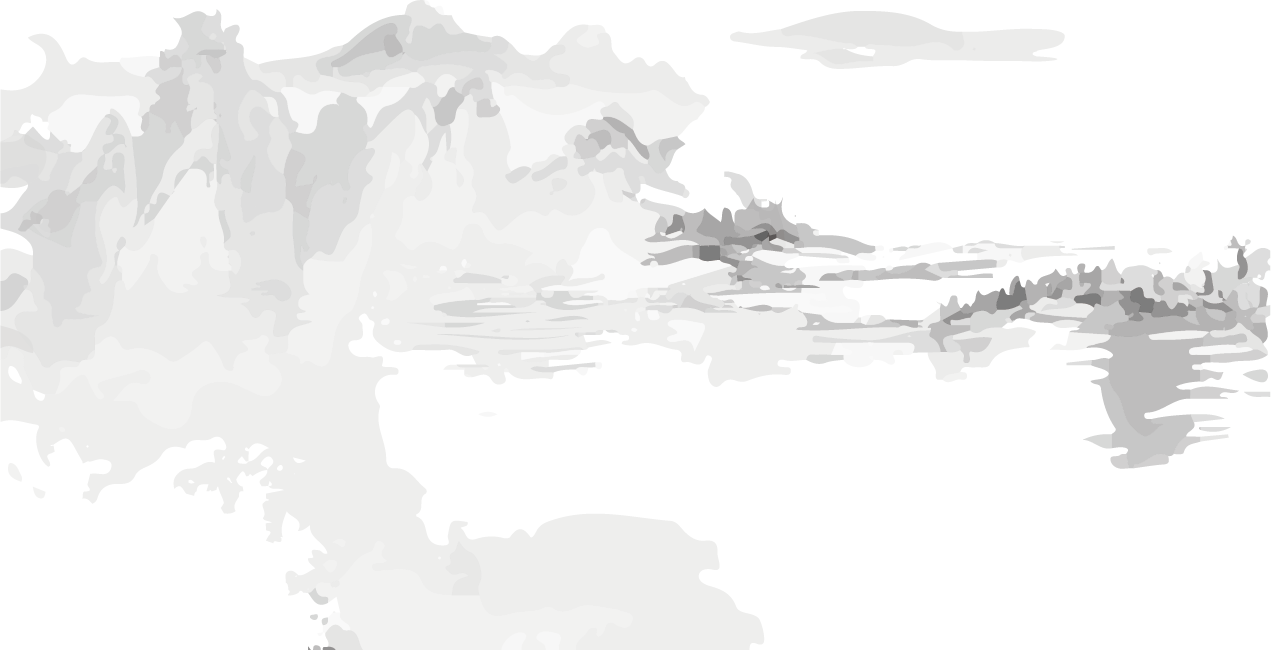
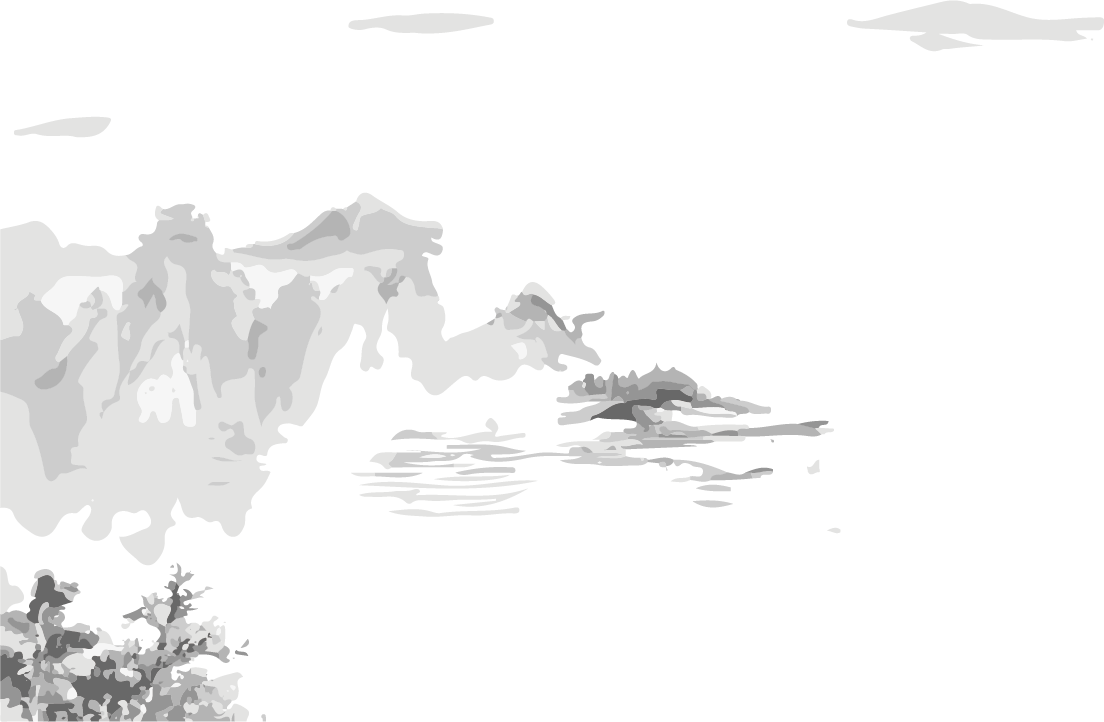
修改 info_behind img 網頁布局 width 70% ->100%

diff --git a/index.html b/index.html
@@ -20,24 +20,22 @@
 					<img class="home_page_right_moun" src="img/index/right_moun.png" width="30%" alt="" draggable="false">
 					<img class="home_page_left_banbom" src="img/index/left_banbom.png" width="30%" alt="" draggable="false">
 					<img class="home_page_right_banbom" src="img/index/right_banbom.png" width="25%" alt="" draggable="false">
-					<img class="home_page_lee" src="img/index/index_lee.png" width="25%" alt="" draggable="false">
+					<img class="home_page_lee" src="img/index/index_lee.png" width="28%" alt="" draggable="false">
 					<div class="home_text">
 						<h1>李商隱</h1>
-						<h3>晚唐最唯情詩人</h3>
 					</div>
 					
 				</div>
 			</div>
 			<div class="plane">
 				<div class="info_page">
-					<img class="info_page_behind" src="img/info/behind.png" width="87%" alt="" draggable="false">
-					<img class="info_page_front" src="img/info/front.png" width="30%" alt="" draggable="false">
+					<img class="info_page_behind" src="img/info/behind.png" width="80%" alt="" draggable="false">
+					<img class="info_page_front" src="img/info/front.png" width="35%" alt="" draggable="false">
 					<img class="info_page_lee" src="img/info/info_lee.png" width="25%" alt="" draggable="false">
 					<div class="info_text">
-						<h3>關於李商隱</h3>
-						<p>李商隱是晚唐唯美文學的健將，也是中國詩史上最是唯情的詩人，因為他唯情，不能理性地去處理人生，所以就註定他悲劇性的一生。同時也因為他的唯情，才造就了他那些令人低迴再三的詩篇。他的詩往往是自己內在心靈情感經驗的提昇，通過高度的藝術技巧，將那種抽象的感受直接渲染到讀者心中。他大部份作品，愛用冷癖的典故、含蓄的語言。去襯寫悽豔的情感，使人只覺其文字之凝鍊、音調之悽美，而不明其所詠何事。但儘管如此，還是感受得到他的詩中所呈現的那種悽美之境，這就是李商隱詩獨有的魅力，千百年來一直為讀者所嚐嗜。</p>
-
-						<p>而李商隱在時代環境的傾軋下、及命運的乖違中，以自己的性格為自己的一生捏造一場悲劇，千百年後，仍受盡各種誤解，『舊唐書』中，說李商隱「俱無持操」；『新唐書』則說李商隱「詭薄無行」，儘管時間已過千百年，但許多史學研究者對李商隱的看法，仍帶著些當年牛黨一派人的成見，因而對詩人未能做出公平的評價。以至到今天，他仍是個有爭議的人物，也因此值得我們加以研究。</p>
+						<p>李商隱是晚唐唯美文學的健將，也是中國詩史上最是唯情的詩人，因為他唯情，不能理性地去處理人生，所以就註定他悲劇性的一生。同時也因為他的唯情，才造就了他那些令人低迴再三的詩篇。他的詩往往是自己內在心靈情感經驗的提昇，通過高度的藝術技巧，將那種抽象的感受直接渲染到讀者心中。</p>
+						<p>他大部份作品，愛用冷癖的典故、含蓄的語言。去襯寫悽豔的情感，使人只覺其文字之凝鍊、音調之悽美，而不明其所詠何事。但儘管如此，還是感受得到他的詩中所呈現的那種悽美之境，這就是李商隱詩獨有的魅力，千百年來一直為讀者所嚐嗜。
+						</p>
 					</div>
 				</div>
 			</div>
@@ -118,15 +116,13 @@
 				<div class="effect_page">
 					<img class="effect_page_behind" src="img/effect/behind.png" width="100%" alt="" draggable="false">
 					<img class="effect_page_between" src="img/effect/between.png" width="40%" alt="" draggable="false">
-					<img class="effect_page_top" src="img/effect/top.png" width="50%" alt="" draggable="false">
-					<img class="effect_page_lee" src="img/effect/effect_lee.png" width="40%" alt="" draggable="false">
+					<img class="effect_page_top" src="img/effect/top.png" width="60%" alt="" draggable="false">
+					<img class="effect_page_lee" src="img/effect/effect_lee.png" width="30%" alt="" draggable="false">
 					<div class="effect_text">
 						<h2>對後世影響</h2>
-						<p>李商隱通常被視作唐代後期最傑出的詩人，其詩風受李賀影響頗深，在句法、章法和結構方面則受到杜甫和韓愈的影響。王安石云：「唐人知學老杜而得其藩籬者，惟義山一人而已。」李調元《雨村詩話》認為：「學杜而處處規，此笨伯也，終身不得升其堂，況入其室。唐人升堂，惟李義山一人而已。」葉紹蘊《石林詩話》云：「唐人學老杜，為商隱一人而已；雖未盡造其妙，然精密華麗，亦自得彷彿。」有部分評論家認為，在唐朝的優秀詩人中，他的重要性僅次於杜甫、李白、王維等人。就詩歌風格的獨特性而言，他與其他任何詩人相比都不遜色。讚賞李商隱詩歌和批評他的人，所針對的都是他鮮明的個人風格。</p>
+						<p>李商隱通常被視作唐代後期最傑出的詩人，其詩風受李賀影響頗深，在句法、章法和結構方面則受到杜甫和韓愈的影響。有部分評論家認為，在唐朝的優秀詩人中，他的重要性僅次於杜甫、李白、王維等人。就詩歌風格的獨特性而言，都是他鮮明的個人風格。</p>
 						
-						<p>李商隱擅作七律和五言排律，七絕也有不少傑出的作品。清朝詩人葉燮在《原詩》中評李商隱的七絕「寄託深而措辭婉，實可空百代無其匹也。」
-
-						李商隱一生糾纏於政治鬥爭，與大量的戀愛痛苦中，養成感傷抑鬱的性格。作品中多諷刺意味，大半借託史事，寄其弔古傷今之意。其愛情詩手腕高妙，嚴肅而不輕薄，清麗而不浮淺，詞藻華麗，並且善於描寫和表現細微的感情，葉嘉瑩認為李義山的詩感受精微銳敏、心意窈眇幽微，足以透出於現實之外而深入於某一屬於心靈之夢幻的境界。</p>
+						<p>李商隱擅作七律和五言排律，七絕也有不少傑出的作品。清朝詩人葉燮在《原詩》中評李商隱的七絕「寄託深而措辭婉，實可空百代無其匹也。」。</p>
 					</div>
 				</div>
 			</div>

diff --git a/scrpit/css/web_style.css b/scrpit/css/web_style.css
@@ -59,13 +59,6 @@ html , body
 	letter-spacing: 3px;
 }
 
-.load
-{
-	width: 100%;
-	height: 100%;
-	background-color: #D5D5D5;
-}
-
 
 .index
 {
@@ -90,16 +83,16 @@ html , body
 	height: 100%;
 	width: 25%;
 	float: left;
-	background-color:#A4A4A4;
+	background-color:#232323;
 	margin: auto;
 }
 
 .home_page
 {
-	width: 70%;
-	height: 70%;
+	width: 100%;
+	height: 100%;
 	background-color:#E2E1E1;
-	margin: 10% auto;
+	margin: 0% auto;
 	position: relative;
 }
 
@@ -107,25 +100,17 @@ html , body
 {
 	color:#515151;
 	position: absolute;
-	left: 30%;
-	top: 15%;
-	font-size: 48px;
-}
-
-.home_page h3
-{
-	color: #515151;
-	position: absolute;
 	left: 35%;
-	top: 32%;
+	top: 15%;
+	font-size: 50px;
 }
 
 .info_page
 {
-	width: 70%;
-	height: 70%;
-	background-color:#E2E1E1;
-	margin: 10% auto;
+	width: 100%;
+	height: 100%;
+	background-color:#E7E7E7;
+	margin: 0% auto;
 	position: relative;
 	
 }
@@ -137,20 +122,21 @@ html , body
 
 .write_page
 {
-	width: 70%;
-	height: 70%;
+	width: 100%;
+	height: 100%;
 	background-color:#E2E0E0;
-	margin: 10% auto;
+	margin: 0% auto;
 	position: relative;
 	transition: all 0.6s ease-out;
+	user-select: none;
 }
 
 .effect_page
 {
-	width: 70%;
-	height: 70%;
+	width: 100%;
+	height: 100%;
 	background-color:#E2E0E0;
-	margin: 10% auto;
+	margin: 0% auto;
 	position: relative;
 }
 
@@ -210,39 +196,37 @@ html , body
 .info_page_behind
 {
 	position: absolute;
-	left: 10%;
-	top: 10%;
-	opacity: 0;
+	left: 0%;
+	bottom: 0;
+	opacity: 1;
+	transition: all 0.3s ease-out;
 }
 
 .info_page_front
 {
 	position: absolute;
-	right: 20%;
+	right: 10%;
 	top: 5%;
-	opacity: 0;
+	opacity: 1;
+	transition: all 0.5s ease-out;
 }
 
 .info_page_lee
 {
 	position: absolute;
-	right: -10%;
+	right: 10%;
 	bottom: 0%;
 }
 
 .info_text
 {
 	position: absolute;
-	top: 10%;
+	top: 15%;
 	left: 10%;
 	width: 50%;
-	height: 70%;
-	opacity: 0;
-}
-
-.info_text h2
-{
-	font-size: 16px;
+	height: 100%;
+	opacity: 1;
+	transition: all 0.6s ease-out;
 }
 
 .info_text p
@@ -258,7 +242,7 @@ html , body
 .page_flex
 {
 	position: relative;
-	width: 70%;
+	width: 50%;
 	display: flex;
 	justify-content: space-around;
 	top: 40%;
@@ -297,11 +281,11 @@ html , body
 
 .chapter
 {
-	width: 30%;
+	width: 25%;
 	position: absolute;
 	background-color: #f2f0ed;
-	top: -10%;
-	left: 33%;
+	top: 5%;
+	left: 35%;
 }
 
 .chapter_bg
@@ -532,6 +516,7 @@ html , body
 	position: absolute;
 	bottom: 0%;
 	opacity: 1;
+	transition: all 0.6s ease-out;
 }
 
 .effect_page_between
@@ -539,6 +524,7 @@ html , body
 	position: absolute;
 	left: 30%;
 	bottom: 5%;
+	transition: all 1s ease-out;
 }
 
 .effect_page_top
@@ -546,12 +532,13 @@ html , body
 	position: absolute;
 	left: 30%;
 	top: 5%;
+	transition: all 0.5s ease-out;
 }
 
 .effect_page_lee
 {
 	position: absolute;
-	right: 0%;
+	right: 5%;
 	bottom: 0%;
 }
 
@@ -562,6 +549,7 @@ html , body
 	left: 10%;
 	width: 50%;
 	height: 70%;
+	transition: all 0.5s ease-out;
 }
 
 .effect_text h2

diff --git a/scrpit/Js/scroll_anime.js b/scrpit/Js/scroll_anime.js
@@ -152,6 +152,7 @@ var index = new ScrollMagic.Scene({
 	$(".home_text").removeClass("fade_in");
 })
 
+
 .setTween(index_pall)
 .addTo(controller);
 
@@ -160,10 +161,10 @@ var index = new ScrollMagic.Scene({
 var info_pall = new TimelineMax()
 	
 	.add([
-			TweenMax.to(".info_page_behind" , 1 , {left: "0%", opacity:1 , delay:1}),
-			TweenMax.to(".info_page_front" , 1 , {right: "0%", opacity:1, delay:1}),
-			TweenMax.to(".info_page_lee" , 1 , {right: "10%" , delay:1}),
-			TweenMax.to(".info_text" , 1 , {opacity:1, delay:1}),
+			TweenMax.from(".info_page_behind" , 1 , { left: "10%", opacity:0 , delay:1}),
+			TweenMax.from(".info_page_front" , 1 , {transform:"scale(1.2)" , right: "0%", opacity:0, delay:1.2}),
+			TweenMax.from(".info_page_lee" , 1 , {right: "0%" , delay:1}),
+			TweenMax.from(".info_text" , 1 , {transform:"scale(1.2)" , left:"0%" ,  opacity:0, delay:1}),
 		]);
 
 var info = new ScrollMagic.Scene({
@@ -208,11 +209,11 @@ var write = new ScrollMagic.Scene({
 var effect_pall = new TimelineMax()
 	
 	.add([
-			TweenMax.from(".effect_page_behind" , 1 , {bottom:"-10%" , opacity:0, delay:8}),
-			TweenMax.from(".effect_page_between" , 1 , {left:"10%", opacity:0, delay:8}),
-			TweenMax.from(".effect_page_top" , 1 , {left:"10%", opacity:0, delay:8}),
+			TweenMax.from(".effect_page_behind" , 1 , {transform:"scale(0.8)" ,bottom:"-10%" , opacity:0, delay:8.3}),
+			TweenMax.from(".effect_page_between" , 1 , {left:"10%", opacity:0, delay:8.8}),
+			TweenMax.from(".effect_page_top" , 1 , {transform:"scale(1.2)" ,left:"10%", opacity:0, delay:8.5}),
 			TweenMax.from(".effect_page_lee" , 1 , {right:"-10%", opacity:0, delay:8}),
-			TweenMax.from(".effect_text" , 1 , { opacity:0, delay:8}),
+			TweenMax.from(".effect_text" , 1 , {transform:"scale(1.2)" , left:"0%" , opacity:0, delay:8}),
 		]);
 
 
